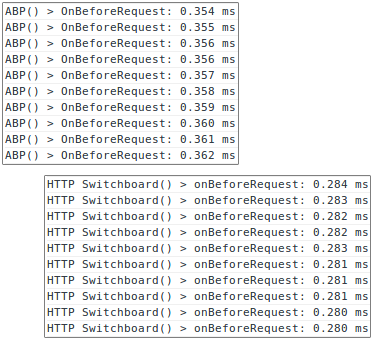
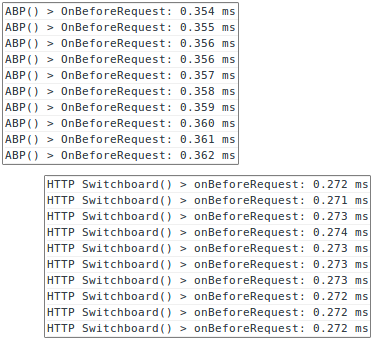
browser optimizer works best if tight loops are confined to less crowded context I suppose

Changed region(s): [[0.8847, 0.5294, 0.9437, 0.7353], [0.8847, 0.7647, 0.9437, 0.8824], [0.8847, 0.9118, 0.9437, 0.9706]]

diff --git a/js/abp-filters.js b/js/abp-filters.js
@@ -66,7 +66,6 @@ var reIgnoreComment = /^\[|^!/;
 var reHostnameRule = /^[0-9a-z.-]+[0-9a-z]$/;
 var reHostnameToken = /^[0-9a-z]+/g;
 var reGoodToken = /[%0-9a-z]{2,}/g;
-var reAnyToken = /[%0-9a-z]+/g;
 
 var typeNameToTypeValue = {
         'stylesheet': 2 << 11,
@@ -682,6 +681,8 @@ var FilterContainer = function() {
 
     // Used during URL matching
     this.categoryBuckets = new Array(8);
+    this.reAnyToken = /[%0-9a-z]+/g;
+    this.reMatches;
 };
 
 /******************************************************************************/
@@ -1053,8 +1054,8 @@ FilterContainer.prototype.freeze = function() {
 
 FilterContainer.prototype.matchToken = function(categoryBucket) {
     var url = this.url;
-    var beg = this.tokenBeg;
-    var end = this.tokenEnd;
+    var beg = this.reMatches.index;
+    var end = this.reAnyToken.lastIndex;
     var right = url.length - end;
     var f;
     
@@ -1097,6 +1098,31 @@ FilterContainer.prototype.matchToken = function(categoryBucket) {
 
 /******************************************************************************/
 
+FilterContainer.prototype.matchTokens = function() {
+    var buckets = this.categoryBuckets;
+    var url = this.url;
+    var re = this.reAnyToken;
+    var i, bucket, f;
+
+    re.lastIndex = 0;
+    while ( this.reMatches = re.exec(url) ) {
+        i = 8;
+        while ( i-- ) {
+            bucket = buckets[i];
+            if ( bucket === undefined ) {
+                continue;
+            }
+            f = this.matchToken(bucket);
+            if ( f !== false ) {
+                return f;
+            }
+        }
+    }
+    return false;
+};
+
+/******************************************************************************/
+
 FilterContainer.prototype.matchString = function(pageStats, url, requestType, requestHostname) {
     // adbProfiler.countUrl();
     // adbProfiler.testCounter(true);
@@ -1119,7 +1145,6 @@ FilterContainer.prototype.matchString = function(pageStats, url, requestType, re
     // This helps performance compared to testing against both classes of
     // filters in the same loop.
 
-    var matches;
     var pageDomain = pageStats.pageDomain;
     var party = requestHostname.slice(-pageDomain.length) === pageDomain ?
         FirstParty :
@@ -1132,7 +1157,6 @@ FilterContainer.prototype.matchString = function(pageStats, url, requestType, re
 
     var categories = this.categories;
     var categoryBuckets = this.categoryBuckets;
-    var i, categoryBucket;
 
     // Test against block filters
     categoryBuckets[7] = categories[this.makeCategoryKey(BlockAnyTypeAnyParty)];
@@ -1144,27 +1168,7 @@ FilterContainer.prototype.matchString = function(pageStats, url, requestType, re
     categoryBuckets[1] = categories[this.makeCategoryKey(BlockOneParty | type | domainParty)];
     categoryBuckets[0] = categories[this.makeCategoryKey(BlockOtherParties | type | domainParty)];
 
-    var bf = false;
-
-    reAnyToken.lastIndex = 0;
-    while ( matches = reAnyToken.exec(url) ) {
-        this.tokenBeg = matches.index;
-        this.tokenEnd = reAnyToken.lastIndex;
-        i = 8;
-        while ( i-- ) {
-            categoryBucket = categoryBuckets[i];
-            if ( categoryBucket === undefined ) {
-                continue;
-            }
-            bf = this.matchToken(categoryBucket);
-            if ( bf !== false ) {
-                break;
-            }
-        }
-		if ( bf !== false ) {
-			break;
-		}
-    }
+    var bf = this.matchTokens();
 
     // If there was no block filter, no need to test against allow filters
     if ( bf === false ) {
@@ -1181,20 +1185,8 @@ FilterContainer.prototype.matchString = function(pageStats, url, requestType, re
     categoryBuckets[1] = categories[this.makeCategoryKey(AllowOneParty | type | domainParty)];
     categoryBuckets[0] = categories[this.makeCategoryKey(AllowOtherParties | type | domainParty)];
 
-    reAnyToken.lastIndex = 0;
-    while ( matches = reAnyToken.exec(url) ) {
-        this.tokenBeg = matches.index;
-        this.tokenEnd = reAnyToken.lastIndex;
-        i = 8;
-        while ( i-- ) {
-            categoryBucket = categoryBuckets[i];
-            if ( categoryBucket === undefined ) {
-                continue;
-            }
-            if ( this.matchToken(categoryBucket) !== false ) {
-                return false;
-            }
-        }
+    if ( this.matchTokens() !== false ) {
+        return false;
     }
 
     return bf;
